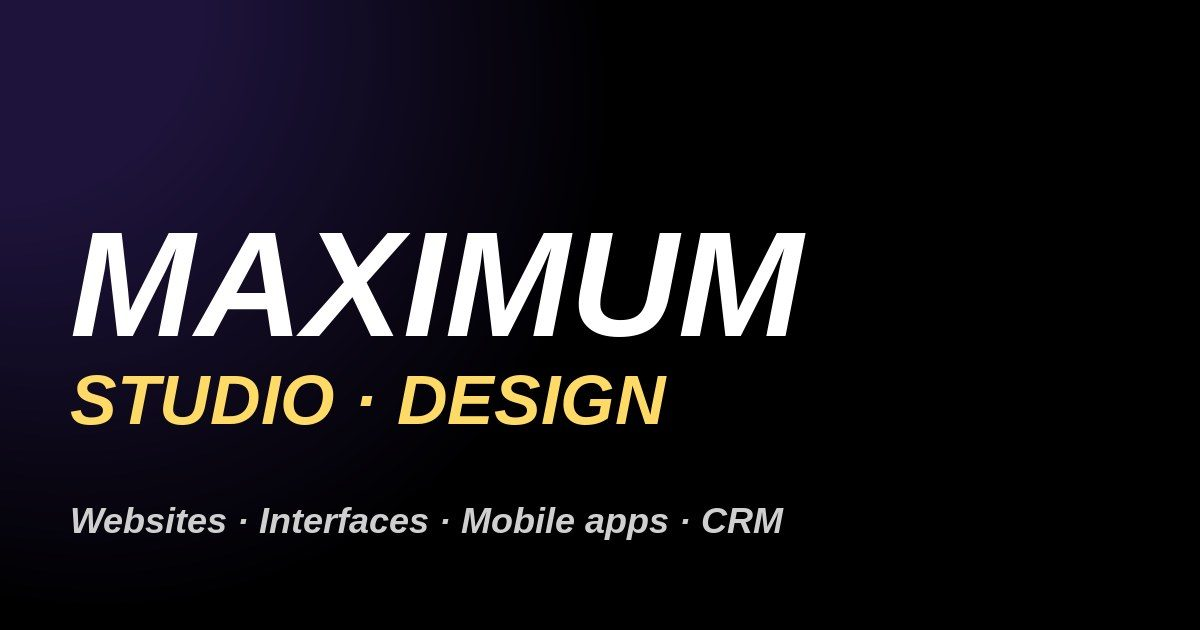
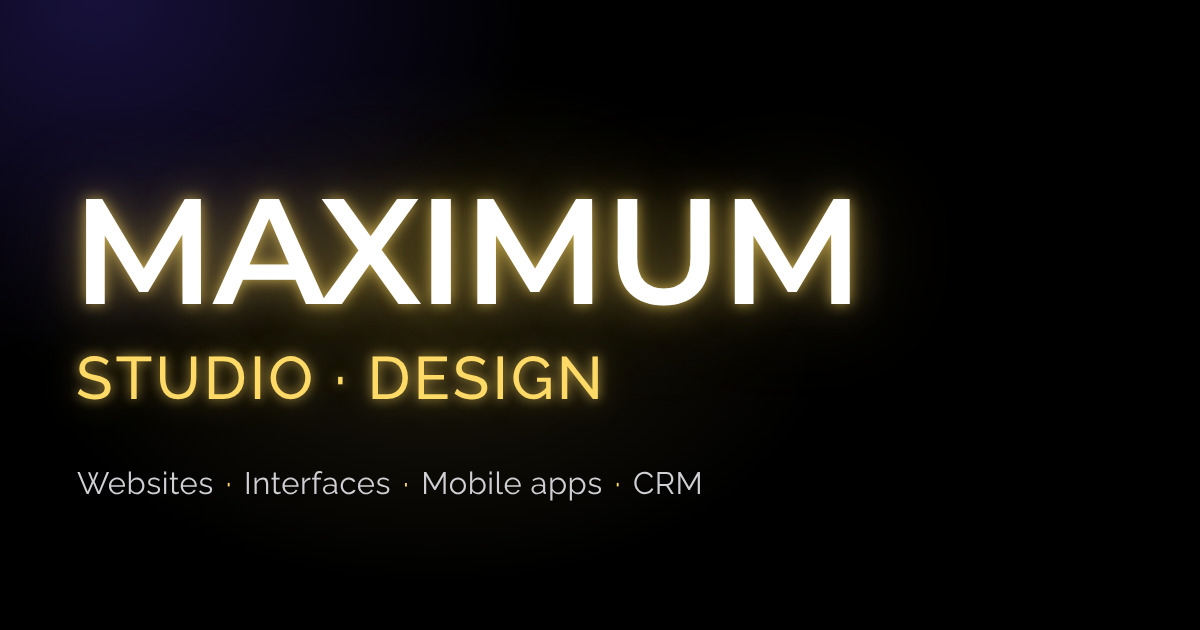
Connect Yandex Metrica, update policy, fix SEO and OG cover
- Metrica counter 113723367 loads only after cookie consent
- Policy sections 2, 5, 6 (RU/EN): Metrica and Google Analytics, cookie lifetimes
- Fix swapped descriptions in 'Mobile app design' and 'CRM development' services
- Add og:image size/alt and twitter:description/alt; versioned og:image URL
- New OG cover: regular weight text with yellow glow
- sitemap lastmod updated

Claude-Session: https://claude.ai/code/session_016mbQdegGQk4836ehLAt8v1

Changed region(s): [[0.0, 0.2111, 0.74, 0.7238], [0.0617, 0.754, 0.5858, 0.8746], [0.5858, 0.7841, 0.6783, 0.8444]]

diff --git a/privacy-policy/index.html b/privacy-policy/index.html
@@ -28,7 +28,7 @@
 <ol>
 <li>Данные из формы заявки: имя, номер телефона и выбранная услуга. Цель — связаться с вами по заявке, обсудить проект и заключить договор. Правовое основание — ваше согласие (отметка в форме); если вы станете заказчиком — также заключение и исполнение договора.</li>
 <li>Данные, которые вы сами сообщаете при переписке по электронной почте, в Telegram, Viber или Instagram (имя, контакты, описание проекта). Цель — ведение переговоров и исполнение договора.</li>
-<li>Технические данные при посещении Сайта (IP-адрес, сведения о браузере и устройстве), которые передаются серверам, обслуживающим Сайт и подключённые к нему сервисы (раздел 5). Цель — показ и безопасная работа Сайта.</li>
+<li>Технические данные при посещении Сайта (IP-адрес, сведения о браузере и устройстве), которые передаются серверам, обслуживающим Сайт и подключённые к нему сервисы (раздел 5). Цель — показ и безопасная работа Сайта. Если вы приняли аналитические cookie, дополнительно обрабатываются сведения о том, как вы пользуетесь Сайтом (раздел 6). Цель — статистика посещений и улучшение Сайта; правовое основание — ваше согласие.</li>
 <li>Оператор не использует ваши данные для рекламных рассылок и не передаёт их для таргетированной рекламы. Если это изменится, потребуется ваше отдельное согласие, а Политика будет обновлена.</li>
 </ol>
 
@@ -48,6 +48,7 @@
 <li><strong>Formspree</strong> (США) — приём заявок из формы. Передаются имя, телефон, выбранная услуга, язык и адрес страницы, время отправки. Заявка пересылается на электронную почту Оператора.</li>
 <li><strong>Google Fonts</strong> (Google, США) — загрузка шрифтов при открытии страницы. Google получает ваш IP-адрес и данные браузера.</li>
 <li><strong>Behance</strong> (Adobe, США) — загрузка обложек проектов в портфолио. Сервис получает IP-адрес и данные браузера.</li>
+<li><strong>Яндекс Метрика</strong> (ООО «Яндекс», Россия) и <strong>Google Analytics</strong> (Google, США) — статистика посещений. Загружаются только после вашего согласия в cookie-баннере. Передаются сведения об использовании Сайта (раздел 6), IP-адрес и данные браузера.</li>
 <li><strong>Telegram, Viber, Instagram</strong> — если вы пишете Оператору через эти мессенджеры и соцсеть, данные обрабатываются по их правилам.</li>
 </ul>
 <p>В странах, где находятся эти сервисы, может не обеспечиваться надлежащий уровень защиты прав субъектов персональных данных: возможны риски доступа к данным со стороны третьих лиц и ограниченные возможности защитить свои права. Отправляя форму и ставя отметку согласия, вы соглашаетесь на передачу данных за пределы Республики Беларусь с учётом этих рисков. Если вы не согласны, свяжитесь с Оператором по телефону, электронной почте или в мессенджере.</p>
@@ -56,7 +57,7 @@
 <p>Cookie — небольшие файлы, которые сохраняются в вашем браузере. На Сайте используются:</p>
 <ul>
 <li><strong>Необходимые</strong> (работают без согласия): сохранение вашего выбора по cookie (срок — 12 месяцев) и отметка о том, что вступительная анимация уже показана. Они не идентифицируют вас и не передаются третьим лицам.</li>
-<li><strong>Аналитические и рекламные</strong> (Яндекс Метрика, Google Analytics, рекламные пиксели): на дату редакции <strong>не используются</strong>. Если Оператор их подключит, они будут загружаться только после вашего согласия в баннере, а Политика будет обновлена с перечнем сервисов и сроков.</li>
+<li><strong>Аналитические</strong> (загружаются только после вашего согласия в баннере): <strong>Яндекс Метрика</strong> (ООО «Яндекс», Россия) и <strong>Google Analytics</strong> (Google, США). Собирают сведения о посещении Сайта: просмотренные страницы, источник перехода, тип устройства и браузера, приблизительное местоположение, клики и переходы по ссылкам. Используются cookie вида _ym_* и _ga*. Срок хранения cookie: Метрика — до 12 месяцев, Google Analytics — до 2 лет; данные о событиях в Google Analytics хранятся 2 месяца. Запись сессий (Вебвизор) и рекламные пиксели не используются. Если вы откажетесь, эти сервисы не загрузятся.</li>
 </ul>
 <p>Принять или отклонить cookie можно в баннере при первом посещении. Изменить решение или отозвать согласие можно в любой момент по ссылке «Настройки cookie» в нижней части Сайта; также cookie можно удалить в настройках браузера.</p>
 

diff --git a/index.html b/index.html
@@ -19,10 +19,14 @@
 <meta property="og:title" content="Maximum Studio — веб-студия: сайты, интерфейсы, приложения">
 <meta property="og:description" content="Разрабатываем и создаем проекты вашей мечты на максимум! Сайты, интернет-магазины, мобильные приложения, CRM.">
 <meta property="og:url" content="https://maximillliano.github.io/maximum/">
-<meta property="og:image" content="https://maximillliano.github.io/maximum/img/og-cover.jpg">
+<meta property="og:image" content="https://maximillliano.github.io/maximum/img/og-cover.jpg?v=20261022">
+<meta property="og:image:type" content="image/jpeg"><meta property="og:image:width" content="1200"><meta property="og:image:height" content="630">
+<meta property="og:image:alt" content="Maximum Studio — веб-студия: сайты, интерфейсы, мобильные приложения">
 <meta name="twitter:card" content="summary_large_image">
 <meta name="twitter:title" content="Maximum Studio — веб-студия">
-<meta name="twitter:image" content="https://maximillliano.github.io/maximum/img/og-cover.jpg">
+<meta name="twitter:description" content="Разрабатываем и создаем проекты вашей мечты на максимум! Сайты, интернет-магазины, мобильные приложения, CRM.">
+<meta name="twitter:image" content="https://maximillliano.github.io/maximum/img/og-cover.jpg?v=20261022">
+<meta name="twitter:image:alt" content="Maximum Studio — веб-студия: сайты, интерфейсы, мобильные приложения">
 <link rel="icon" href="img/favicon.svg" type="image/svg+xml">
 <link rel="apple-touch-icon" href="img/apple-touch-icon.png">
 <link rel="manifest" href="site.webmanifest">
@@ -128,9 +132,9 @@
     <img class="deco deco-wire" src="img/decor/wire.png" alt="" aria-hidden="true" loading="lazy" style="--x:1525;--y:-38;--w:234">
     <article class="card sv s1 rv" style="--x:0;--y:0;--w:560"><div class="im"><img src="img/web-1.jpg" alt="Разработка сайтов и b2b-сервисов" loading="lazy"></div><h3 data-i="c1">Разработка сайтов и b2b-сервисов</h3><p data-i="c1p">Создаем прибыльные интернет-магазины, мощные сервисы, яркие лендинги. Работаем с бизнесами разных направлений и понимаем, какие решения принесут максимальный результат.</p></article>
     <div class="sv s2 rv" style="--x:580;--y:0;--w:350;--d:.15s"><div class="im"><img src="img/web-2.jpg" alt="Лендинги и интернет-магазины" loading="lazy"></div></div>
-    <article class="card sv s5 rv" style="--x:1163;--y:568;--w:560"><div class="im"><img src="img/mobile.jpg" alt="Дизайн мобильных приложений" loading="lazy"></div><h3 data-i="c2">Дизайн мобильных приложений</h3><p data-i="c2p">В веб-студии Maximum мы предлагаем разработку CRM-систем, которые помогают бизнесам оптимизировать управление клиентами и улучшить взаимодействие с ними.</p></article>
+    <article class="card sv s5 rv" style="--x:1163;--y:568;--w:560"><div class="im"><img src="img/mobile.jpg" alt="Дизайн мобильных приложений" loading="lazy"></div><h3 data-i="c2">Дизайн мобильных приложений</h3><p data-i="c2p">Проектируем интерфейсы мобильных приложений: от исследования и прототипа до дизайн-системы и передачи в разработку.</p></article>
     <article class="card sv s3 rv" style="--x:436;--y:1210;--w:560"><div class="im"><img src="img/support.jpg" alt="Техподдержка сайтов" loading="lazy"></div><h3 data-i="c3">Техподдержка сайтов</h3><p data-i="c3p">Исправим ошибки, улучшим код, оптимизируем работу системы и усилим безопасность. Обеспечим стабильную и бесперебойную работу вашего сайта круглосуточно.</p></article>
-    <article class="card sv s4 rv" style="--x:0;--y:2024;--w:1723"><div class="two"><div class="im"><img src="img/crm-1.jpg" alt="Разработка CRM" loading="lazy"></div><div class="im"><img src="img/crm-2.jpg" alt="CRM-система" loading="lazy"></div></div><h3 data-i="c4">Разработка CRM</h3><p data-i="c4p">Наша команда создает сайты, которые привлекают пользователей и обеспечивают удобство использования.</p></article>
+    <article class="card sv s4 rv" style="--x:0;--y:2024;--w:1723"><div class="two"><div class="im"><img src="img/crm-1.jpg" alt="Разработка CRM" loading="lazy"></div><div class="im"><img src="img/crm-2.jpg" alt="CRM-система" loading="lazy"></div></div><h3 data-i="c4">Разработка CRM</h3><p data-i="c4p">Разрабатываем CRM-системы, которые помогают бизнесу оптимизировать управление клиентами и улучшить взаимодействие с ними.</p></article>
   </div>
 </section>
 

diff --git a/en/privacy-policy/index.html b/en/privacy-policy/index.html
@@ -28,7 +28,7 @@
 <ol>
 <li>Data from the request form: name, phone number and the selected service. Purpose: to contact you about your request, discuss the project and conclude a contract. Legal basis: your consent (the checkbox in the form); if you become a client, also the conclusion and performance of a contract.</li>
 <li>Data you provide yourself when corresponding by email, Telegram, Viber or Instagram (name, contacts, project description). Purpose: negotiations and performance of a contract.</li>
-<li>Technical data when you visit the Website (IP address, browser and device information) that is passed to the servers serving the Website and the services connected to it (section 5). Purpose: displaying the Website and keeping it secure.</li>
+<li>Technical data when you visit the Website (IP address, browser and device information) that is passed to the servers serving the Website and the services connected to it (section 5). Purpose: displaying the Website and keeping it secure. If you accept analytics cookies, information about how you use the Website is also processed (section 6). Purpose: visit statistics and improving the Website; legal basis: your consent.</li>
 <li>The Operator does not use your data for advertising mailings and does not pass it on for targeted advertising. If this changes, your separate consent will be required and this Policy will be updated.</li>
 </ol>
 
@@ -48,6 +48,7 @@
 <li><strong>Formspree</strong> (USA) — receiving requests from the form. Your name, phone, selected service, language, page address and time of submission are transferred. The request is forwarded to the Operator’s email.</li>
 <li><strong>Google Fonts</strong> (Google, USA) — loading fonts when a page opens. Google receives your IP address and browser data.</li>
 <li><strong>Behance</strong> (Adobe, USA) — loading project covers in the portfolio. The service receives your IP address and browser data.</li>
+<li><strong>Yandex Metrica</strong> (Yandex LLC, Russia) and <strong>Google Analytics</strong> (Google, USA) — visit statistics. Loaded only after your consent in the cookie banner. Information about your use of the Website (section 6), your IP address and browser data are transferred.</li>
 <li><strong>Telegram, Viber, Instagram</strong> — if you contact the Operator through these messengers and social network, your data is processed under their rules.</li>
 </ul>
 <p>The countries where these services are located may not provide an adequate level of protection of data subjects’ rights: there are risks of access to data by third parties and limited means of protecting your rights. By submitting the form and ticking the consent box, you agree to the transfer of data outside the Republic of Belarus, taking these risks into account. If you do not agree, contact the Operator by phone, email or messenger.</p>
@@ -56,7 +57,7 @@
 <p>Cookies are small files saved in your browser. The Website uses:</p>
 <ul>
 <li><strong>Necessary</strong> (work without consent): storing your cookie choice (12 months) and a flag showing that the intro animation has already been displayed. They do not identify you and are not passed to third parties.</li>
-<li><strong>Analytics and advertising</strong> (Yandex Metrica, Google Analytics, advertising pixels): <strong>not used</strong> as of the date of this version. If the Operator connects them, they will load only after you consent in the banner, and this Policy will be updated with the list of services and retention periods.</li>
+<li><strong>Analytics</strong> (loaded only after your consent in the banner): <strong>Yandex Metrica</strong> (Yandex LLC, Russia) and <strong>Google Analytics</strong> (Google, USA). They collect information about visits to the Website: pages viewed, traffic source, device and browser type, approximate location, clicks and link transitions. Cookies of the _ym_* and _ga* kind are used. Cookie lifetime: Metrica — up to 12 months, Google Analytics — up to 2 years; event data in Google Analytics is kept for 2 months. Session recording (Webvisor) and advertising pixels are not used. If you decline, these services are not loaded.</li>
 </ul>
 <p>You can accept or decline cookies in the banner on your first visit. You can change your decision or withdraw consent at any time via the “Cookie settings” link at the bottom of the Website; you can also delete cookies in your browser settings.</p>
 

diff --git a/i18n/policy-en.html b/i18n/policy-en.html
@@ -8,7 +8,7 @@
 <ol>
 <li>Data from the request form: name, phone number and the selected service. Purpose: to contact you about your request, discuss the project and conclude a contract. Legal basis: your consent (the checkbox in the form); if you become a client, also the conclusion and performance of a contract.</li>
 <li>Data you provide yourself when corresponding by email, Telegram, Viber or Instagram (name, contacts, project description). Purpose: negotiations and performance of a contract.</li>
-<li>Technical data when you visit the Website (IP address, browser and device information) that is passed to the servers serving the Website and the services connected to it (section 5). Purpose: displaying the Website and keeping it secure.</li>
+<li>Technical data when you visit the Website (IP address, browser and device information) that is passed to the servers serving the Website and the services connected to it (section 5). Purpose: displaying the Website and keeping it secure. If you accept analytics cookies, information about how you use the Website is also processed (section 6). Purpose: visit statistics and improving the Website; legal basis: your consent.</li>
 <li>The Operator does not use your data for advertising mailings and does not pass it on for targeted advertising. If this changes, your separate consent will be required and this Policy will be updated.</li>
 </ol>
 
@@ -28,6 +28,7 @@
 <li><strong>Formspree</strong> (USA) — receiving requests from the form. Your name, phone, selected service, language, page address and time of submission are transferred. The request is forwarded to the Operator’s email.</li>
 <li><strong>Google Fonts</strong> (Google, USA) — loading fonts when a page opens. Google receives your IP address and browser data.</li>
 <li><strong>Behance</strong> (Adobe, USA) — loading project covers in the portfolio. The service receives your IP address and browser data.</li>
+<li><strong>Yandex Metrica</strong> (Yandex LLC, Russia) and <strong>Google Analytics</strong> (Google, USA) — visit statistics. Loaded only after your consent in the cookie banner. Information about your use of the Website (section 6), your IP address and browser data are transferred.</li>
 <li><strong>Telegram, Viber, Instagram</strong> — if you contact the Operator through these messengers and social network, your data is processed under their rules.</li>
 </ul>
 <p>The countries where these services are located may not provide an adequate level of protection of data subjects’ rights: there are risks of access to data by third parties and limited means of protecting your rights. By submitting the form and ticking the consent box, you agree to the transfer of data outside the Republic of Belarus, taking these risks into account. If you do not agree, contact the Operator by phone, email or messenger.</p>
@@ -36,7 +37,7 @@
 <p>Cookies are small files saved in your browser. The Website uses:</p>
 <ul>
 <li><strong>Necessary</strong> (work without consent): storing your cookie choice (12 months) and a flag showing that the intro animation has already been displayed. They do not identify you and are not passed to third parties.</li>
-<li><strong>Analytics and advertising</strong> (Yandex Metrica, Google Analytics, advertising pixels): <strong>not used</strong> as of the date of this version. If the Operator connects them, they will load only after you consent in the banner, and this Policy will be updated with the list of services and retention periods.</li>
+<li><strong>Analytics</strong> (loaded only after your consent in the banner): <strong>Yandex Metrica</strong> (Yandex LLC, Russia) and <strong>Google Analytics</strong> (Google, USA). They collect information about visits to the Website: pages viewed, traffic source, device and browser type, approximate location, clicks and link transitions. Cookies of the _ym_* and _ga* kind are used. Cookie lifetime: Metrica — up to 12 months, Google Analytics — up to 2 years; event data in Google Analytics is kept for 2 months. Session recording (Webvisor) and advertising pixels are not used. If you decline, these services are not loaded.</li>
 </ul>
 <p>You can accept or decline cookies in the banner on your first visit. You can change your decision or withdraw consent at any time via the “Cookie settings” link at the bottom of the Website; you can also delete cookies in your browser settings.</p>
 

diff --git a/en/index.html b/en/index.html
@@ -19,10 +19,14 @@
 <meta property="og:title" content="Maximum Studio — web studio: websites, interfaces, apps">
 <meta property="og:description" content="We build the projects of your dreams to the maximum! Websites, online stores, mobile apps and CRM.">
 <meta property="og:url" content="https://maximillliano.github.io/maximum/en/">
-<meta property="og:image" content="https://maximillliano.github.io/maximum/img/og-cover.jpg">
+<meta property="og:image" content="https://maximillliano.github.io/maximum/img/og-cover.jpg?v=20261022">
+<meta property="og:image:type" content="image/jpeg"><meta property="og:image:width" content="1200"><meta property="og:image:height" content="630">
+<meta property="og:image:alt" content="Maximum Studio — web studio: websites, interfaces, mobile apps">
 <meta name="twitter:card" content="summary_large_image">
 <meta name="twitter:title" content="Maximum Studio — web studio: websites, interfaces, apps">
-<meta name="twitter:image" content="https://maximillliano.github.io/maximum/img/og-cover.jpg">
+<meta name="twitter:description" content="We build the projects of your dreams to the maximum! Websites, online stores, mobile apps and CRM.">
+<meta name="twitter:image" content="https://maximillliano.github.io/maximum/img/og-cover.jpg?v=20261022">
+<meta name="twitter:image:alt" content="Maximum Studio — web studio: websites, interfaces, mobile apps">
 <link rel="icon" href="../img/favicon.svg" type="image/svg+xml">
 <link rel="apple-touch-icon" href="../img/apple-touch-icon.png">
 <link rel="manifest" href="../site.webmanifest">
@@ -128,9 +132,9 @@
     <img class="deco deco-wire" src="../img/decor/wire.png" alt="" aria-hidden="true" loading="lazy" style="--x:1525;--y:-38;--w:234">
     <article class="card sv s1 rv" style="--x:0;--y:0;--w:560"><div class="im"><img src="../img/web-1.jpg" alt="Website and B2B service development" loading="lazy"></div><h3 data-i="c1">Website and B2B service development</h3><p data-i="c1p">We build profitable online stores, powerful services and bright landing pages. We work with businesses in different fields and know which solutions deliver the maximum result.</p></article>
     <div class="sv s2 rv" style="--x:580;--y:0;--w:350;--d:.15s"><div class="im"><img src="../img/web-2.jpg" alt="Landing pages and online stores" loading="lazy"></div></div>
-    <article class="card sv s5 rv" style="--x:1163;--y:568;--w:560"><div class="im"><img src="../img/mobile.jpg" alt="Mobile app design" loading="lazy"></div><h3 data-i="c2">Mobile app design</h3><p data-i="c2p">At Maximum web studio we develop CRM systems that help businesses optimize customer management and improve communication with clients.</p></article>
+    <article class="card sv s5 rv" style="--x:1163;--y:568;--w:560"><div class="im"><img src="../img/mobile.jpg" alt="Mobile app design" loading="lazy"></div><h3 data-i="c2">Mobile app design</h3><p data-i="c2p">We design mobile app interfaces: from research and prototype to a design system and handoff to development.</p></article>
     <article class="card sv s3 rv" style="--x:436;--y:1210;--w:560"><div class="im"><img src="../img/support.jpg" alt="Website support" loading="lazy"></div><h3 data-i="c3">Website support</h3><p data-i="c3p">We fix bugs, improve code, optimize system performance and strengthen security. We keep your website running stably and without interruption, around the clock.</p></article>
-    <article class="card sv s4 rv" style="--x:0;--y:2024;--w:1723"><div class="two"><div class="im"><img src="../img/crm-1.jpg" alt="CRM development" loading="lazy"></div><div class="im"><img src="../img/crm-2.jpg" alt="CRM system" loading="lazy"></div></div><h3 data-i="c4">CRM development</h3><p data-i="c4p">Our team creates websites that attract users and provide a convenient experience.</p></article>
+    <article class="card sv s4 rv" style="--x:0;--y:2024;--w:1723"><div class="two"><div class="im"><img src="../img/crm-1.jpg" alt="CRM development" loading="lazy"></div><div class="im"><img src="../img/crm-2.jpg" alt="CRM system" loading="lazy"></div></div><h3 data-i="c4">CRM development</h3><p data-i="c4p">We build CRM systems that help businesses optimize customer management and improve communication with clients.</p></article>
   </div>
 </section>
 

diff --git a/js/main.js b/js/main.js
@@ -75,7 +75,7 @@ $$('input',form).forEach(function(i){i.addEventListener('input',function(){bad(i
 /* ---------- cookies: выбор хранится 12 месяцев; аналитика грузится только после «Принять» ---------- */
 var ck=$('#cookie'),CK_TTL=365*864e5,anLoaded=false;
 /* ID счётчиков. Пока пусто — ничего не подключается и никуда не передаётся. Подключите — и обновите Политику (раздел 6). */
-var ANALYTICS={ym:'',ga:'G-MGN5GMJS69'};
+var ANALYTICS={ym:'113723367',ga:'G-MGN5GMJS69'};
 function ckGet(){try{var o=JSON.parse(store.get('cookies')||'null');if(o&&o.v&&Date.now()-o.t<CK_TTL)return o.v}catch(e){}return null}
 function ckShow(o){ck.classList.toggle('show',o)}
 function loadAnalytics(){

diff --git a/build-en.py b/build-en.py
@@ -30,6 +30,8 @@ def page_meta(s,url,title,desc,ogt,ogd):
     s=re.sub(r'(<meta property="og:title" content=")[^"]*(")',lambda m:m.group(1)+html.escape(ogt)+m.group(2),s)
     s=re.sub(r'(<meta property="og:description" content=")[^"]*(")',lambda m:m.group(1)+html.escape(ogd)+m.group(2),s)
     s=re.sub(r'(<meta name="twitter:title" content=")[^"]*(")',lambda m:m.group(1)+html.escape(ogt)+m.group(2),s)
+    s=re.sub(r'(<meta name="twitter:description" content=")[^"]*(")',lambda m:m.group(1)+html.escape(ogd)+m.group(2),s)
+    s=re.sub(r'(<meta (?:property="og:image:alt"|name="twitter:image:alt") content=")[^"]*(")',lambda m:m.group(1)+html.escape(EN['og_alt'])+m.group(2),s)
     return s
 # ---------------- главная ----------------
 s=DT.sub(tr,ru)
